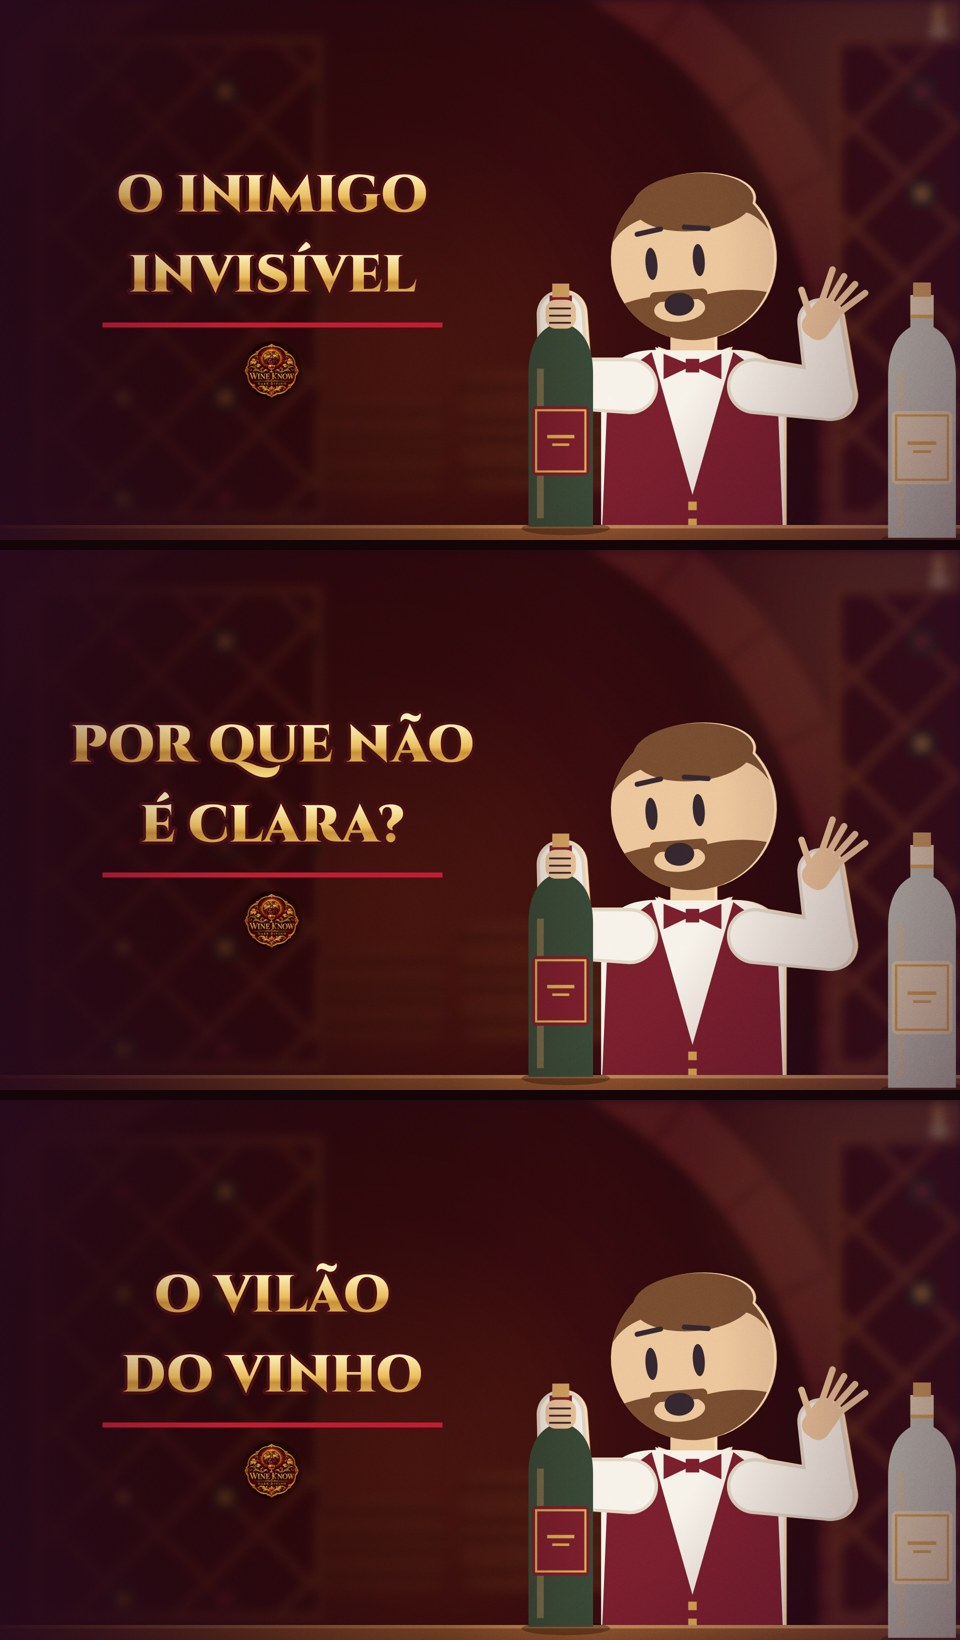
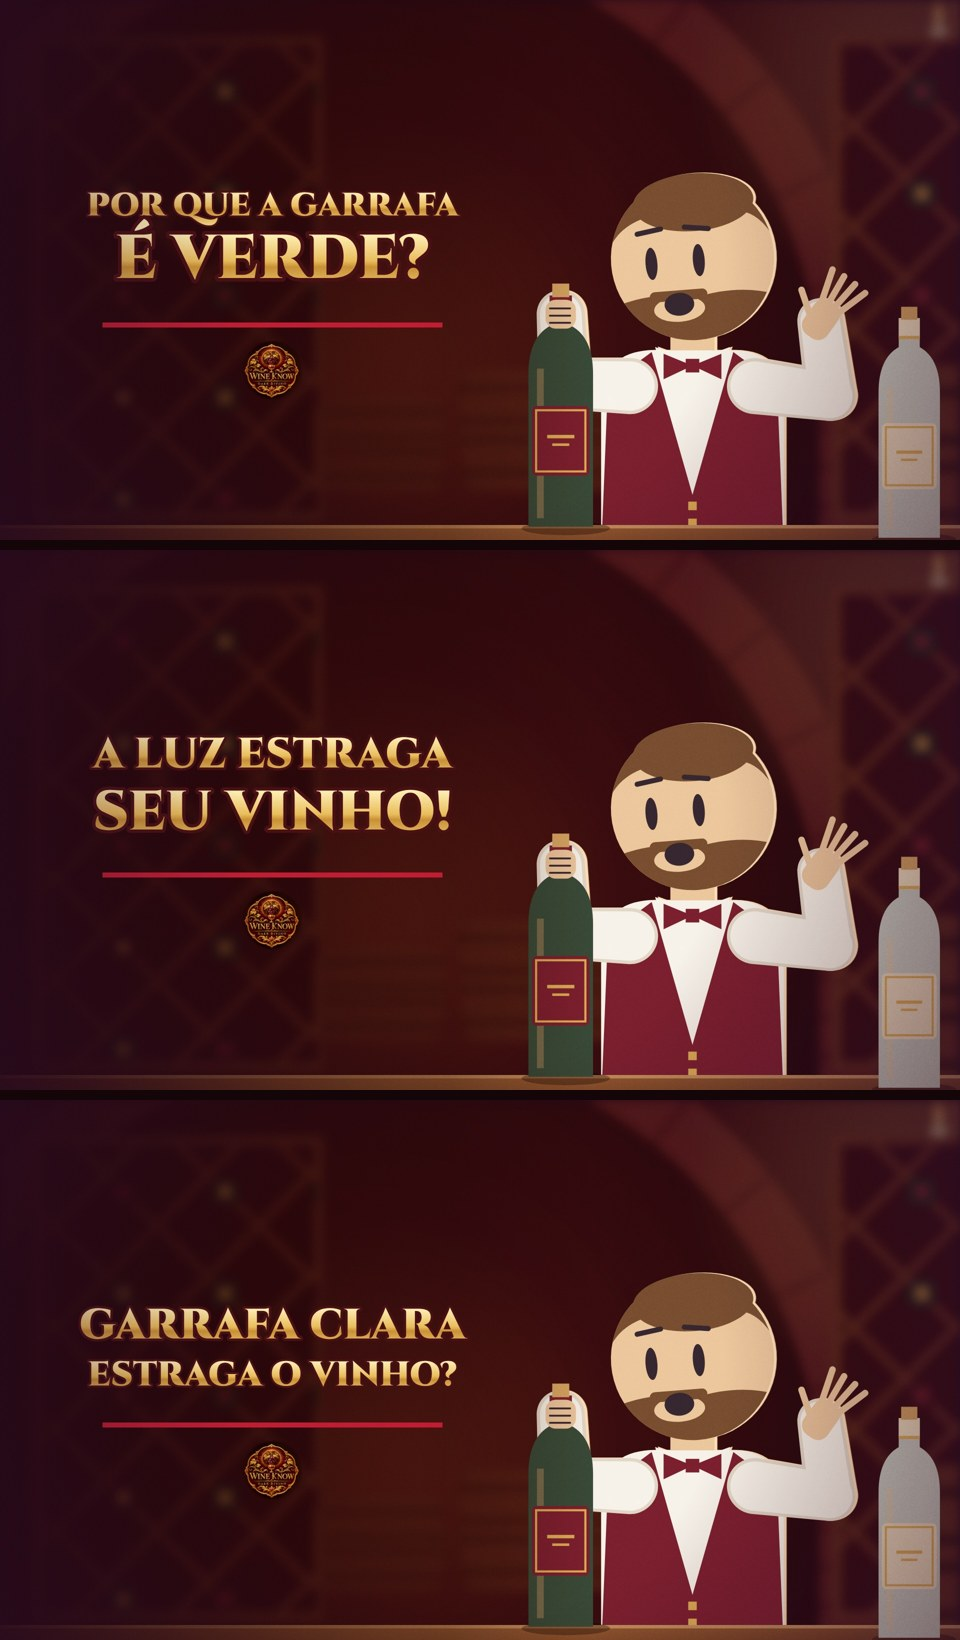
Padrão: thumb diz o assunto; 3 novas opções de thumb do vídeo 05
Claude-Session: https://claude.ai/code/session_01Xc7qjeV8m98AoCZPYGJz9u

diff --git a/CLAUDE.md b/CLAUDE.md
@@ -17,7 +17,7 @@ Instalar a skill: copiar `skills/stickman` do repositório para `~/.claude/skill
 - Títulos em ouro serifado (Cinzel 900), textos em Cormorant 600. Placas com moldura dourada e ornamento.
 - **Primeiro quadro = a thumbnail, idêntica, que ganha vida** (o Sommelier pisca, fala a 1ª frase, acena; câmera aproxima devagar).
   Thumb e abertura saem do MESMO código (`thumbFrame(0)` = thumb). Fechar com o logo Wine Know (~2,5–3 s).
-- Thumb: 2 linhas de texto, rosto como ponto focal, selo do canal PEQUENO, centralizado, logo abaixo da linha vermelha.
+- Thumb: 2 linhas de texto que DIZEM O ASSUNTO do vídeo (curiosidade sim, mistério vazio não: "A LUZ ESTRAGA SEU VINHO!", não "O INIMIGO INVISÍVEL"); sempre levar 3 opções. Rosto como ponto focal, selo do canal PEQUENO, centralizado, logo abaixo da linha vermelha.
 - Marca d'água: selo do canal GRANDE, centralizado (abaixo do rosto), bem clarinho (~7,5%), em todas as cenas menos abertura e logo final
   — sobrevive a recorte de Reels.
 - Mão NUNCA na frente do rótulo: mão apoiada fica atrás da garrafa; ao erguer, segura pelo gargalo.

diff --git a/.claude/skills/wine-know-video/SKILL.md b/.claude/skills/wine-know-video/SKILL.md
@@ -27,7 +27,7 @@ Revista Adega, ABS) e grave `pesquisa.md` com cada fato e sua fonte. Nada de sit
 ~11 cenas) serve para Shorts. Uma frase falada por cena. Estrutura, tom e checagem de fatos em
 `references/roteiro.md`. Grave em `<pasta>/vo/lines.json` como `[[0,0,"frase"], ...]`. A última frase é sempre "Wine Know. Dark Divino.".
 
-**4. Pasta e thumbnail.**
+**4. Pasta e thumbnail.** A thumb precisa DIZER O ASSUNTO (curiosidade, não mistério vazio); leve 3 opções com título do YouTube para o dono escolher.
 ```
 python3 SK/scripts/doctor.py
 python3 SK/scripts/new_video.py <pasta> --thumb <thumbnail-do-usuário>      # ou qualquer imagem provisória
